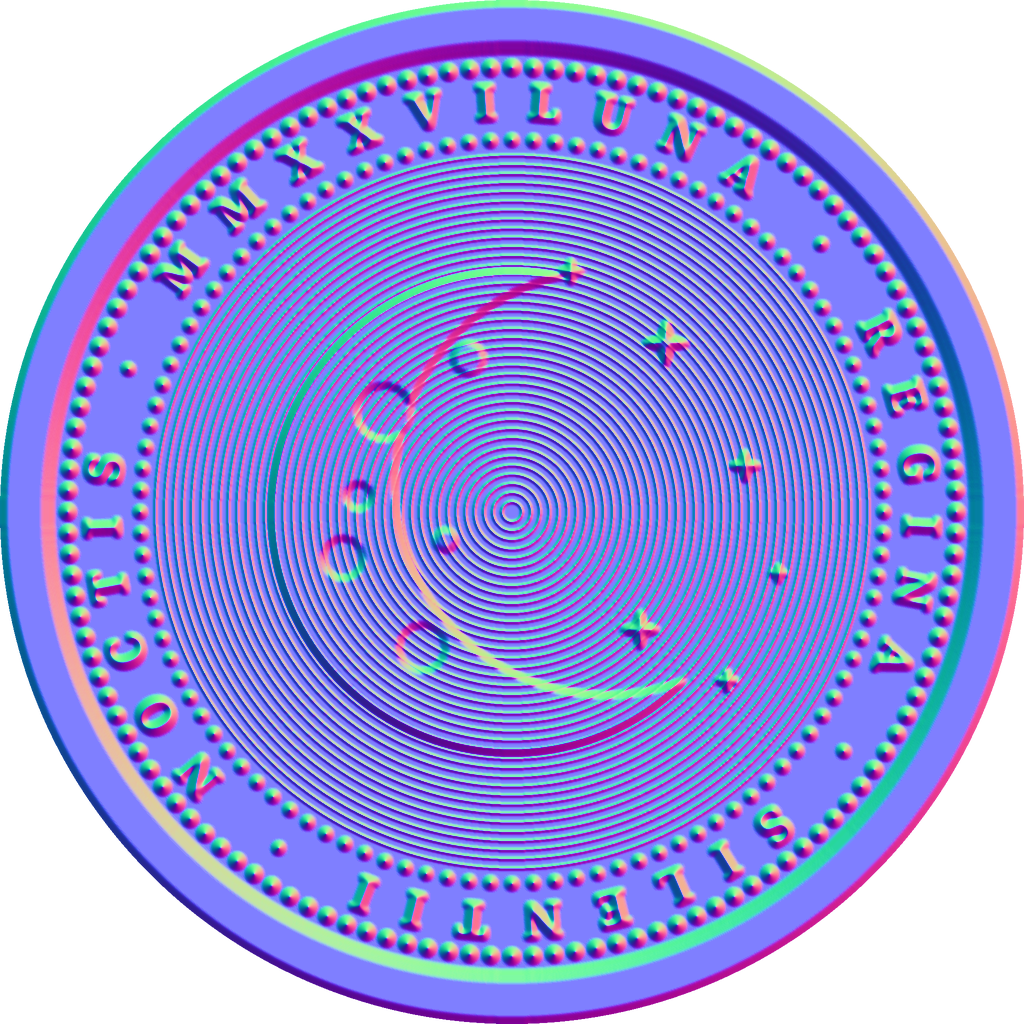
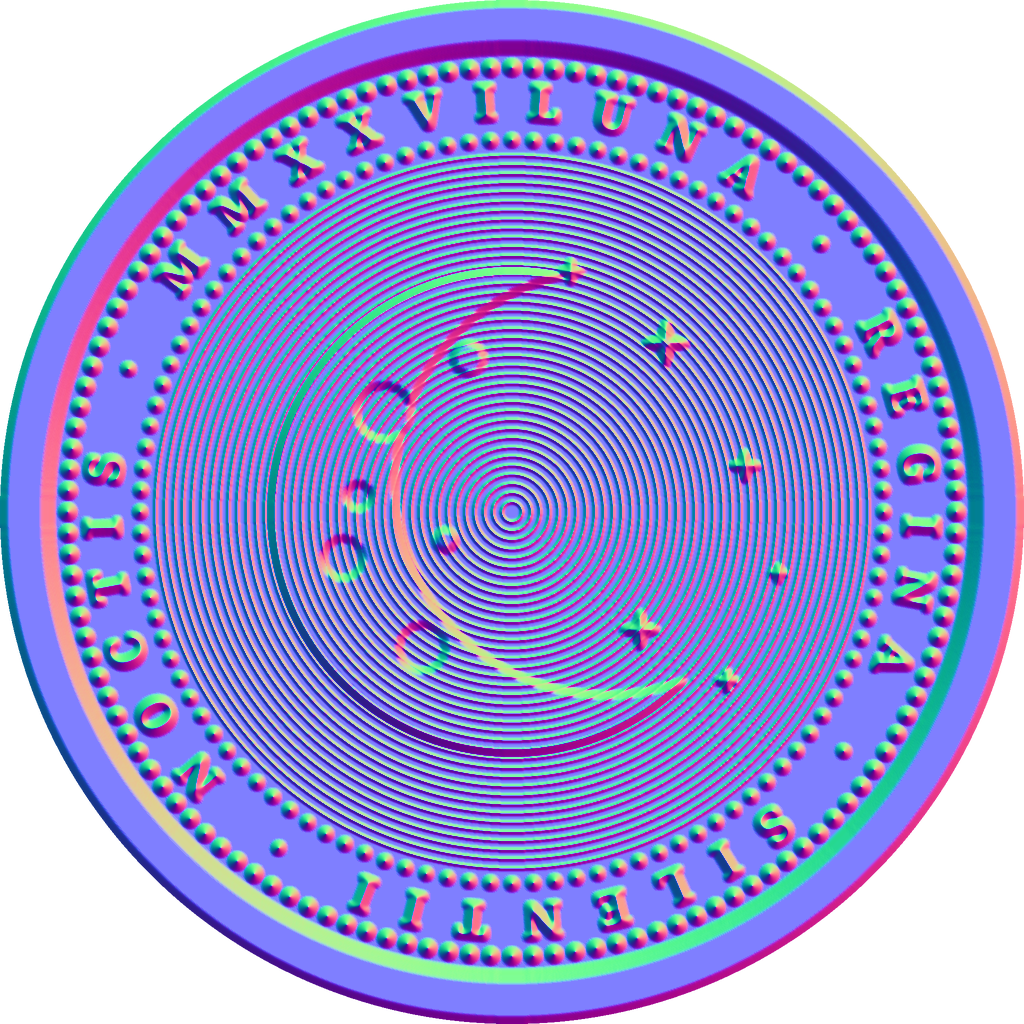
环境反射与金属材质：按参考图实测重建明暗
实测参考图亮度呈双峰分布（最亮档 37%、中间调仅 11%），
这是金属反射高对比环境的特征，据此重建：
- 环境贴图改为大面积纯白灯箱 + 暗区，模糊半径 24->9 保住亮暗分界
- 底色不用全黑而用中灰 96（实测最暗处约 90）
- 金属度 0.42->0.98、粗糙度 0.13，方向光降到 0.35 避免填平亮暗
- 银面底色提至近白，法线强度加深，日面补一圈细放射线

Claude-Session: https://claude.ai/code/session_013L5obD5FRvDZWpqWPEBMAm

diff --git a/CoinFlip/Scene/CoinSceneView.swift b/CoinFlip/Scene/CoinSceneView.swift
@@ -45,6 +45,14 @@ enum CoinScene {
     /// 把时间表里的高度（米）换算成场景里的高度
     static let heightScale: Float = 0.85
 
+    // 亮度。整体偏暗或偏亮时，优先调这两个。
+    /// 环境反射的强弱。这是"档位"，每加 1 就亮一倍。
+    static let environmentStops: Float = 1.9
+    /// 所有灯的总亮度倍数。
+    /// 金属几乎不吃这几盏灯，它的明暗主要来自环境反射。
+    /// 灯开大了反而会把亮暗之间填平，硬币就发灰了，所以这个数很小。
+    static let lightGain: Float = 0.35
+
     // 等待时的镜头微动。
     // 硬币是躺在平面上的，自己不该浮起来，所以改成镜头极缓慢地游移，
     // 画面有呼吸感，物理上也说得通。
@@ -103,6 +111,11 @@ struct CoinSceneView: View {
             state.coin = coin
             state.camera = camera
             coin.transform.rotation = Self.restingRotation(for: phase.currentFace)
+
+            // 环境反射。读不出来就跳过，硬币仍由上面那组灯照亮。
+            if let environment = await StudioEnvironment.load() {
+                content.add(StudioEnvironment.makeLight(environment, for: coin))
+            }
 
             // 跟着画面刷新走：每画一帧，系统就调一次这里。
             // 比自己起计时器更准，也不会在没动画时白白耗电。
@@ -336,11 +349,14 @@ struct CoinSceneView: View {
     ///     而不是像印花一样贴死在上面。
     private func faceMaterial(textureNamed name: String) -> RealityKit.Material {
         var material = PhysicallyBasedMaterial()
-        material.metallic = 0.42
-        material.roughness = 0.30
+        // 真正的金属：金属度拉满、表面抛得很光。
+        // 金属不靠自己发亮，全靠映出周围的环境——所以必须配合环境贴图，
+        // 没有环境的时候金属度高反而会死灰一片。
+        material.metallic = 0.98
+        material.roughness = 0.13
 
         if let texture = try? TextureResource.load(named: name) {
-            material.baseColor = .init(tint: UIColor(white: 0.70, alpha: 1),
+            material.baseColor = .init(tint: UIColor(white: 0.96, alpha: 1),
                                        texture: .init(texture))
         } else {
             material.baseColor = .init(tint: UIColor(white: 0.78, alpha: 1))
@@ -358,9 +374,9 @@ struct CoinSceneView: View {
     /// 侧边：没有图案的抛光银
     private func edgeMaterial() -> RealityKit.Material {
         var material = PhysicallyBasedMaterial()
-        material.baseColor = .init(tint: UIColor(white: 0.46, alpha: 1))
-        material.metallic = 0.3
-        material.roughness = 0.22
+        material.baseColor = .init(tint: UIColor(white: 0.88, alpha: 1))
+        material.metallic = 1.0
+        material.roughness = 0.12
         return material
     }
 
@@ -369,23 +385,39 @@ struct CoinSceneView: View {
     private func makeLights() -> Entity {
         let rig = Entity()
 
-        let key = DirectionalLight()
-        key.light.intensity = 1500
-        key.light.color = .white
-        key.look(at: .zero, from: [-1.1, 1.5, 1.6], relativeTo: nil)
-        rig.addChild(key)
+        /// 加一盏灯。角度用"从哪个方向照过来"描述，比写坐标直观。
+        func addLight(azimuth: Float, elevation: Float,
+                      intensity: Float, color: UIColor = .white) {
+            let light = DirectionalLight()
+            light.light.intensity = intensity * CoinScene.lightGain
+            light.light.color = color
+            let a = azimuth * .pi / 180
+            let e = elevation * .pi / 180
+            let from = SIMD3<Float>(sin(a) * cos(e), sin(e), cos(a) * cos(e)) * 4
+            light.look(at: .zero, from: from, relativeTo: nil)
+            rig.addChild(light)
+        }
 
-        let fill = DirectionalLight()
-        fill.light.intensity = 420
-        fill.light.color = UIColor(red: 0.84, green: 0.89, blue: 1.0, alpha: 1)
-        fill.look(at: .zero, from: [1.5, -1.0, 1.1], relativeTo: nil)
-        rig.addChild(fill)
+        // 主灯：左前上方。硬币大部分时候的明暗由它决定。
+        addLight(azimuth: -38, elevation: 42, intensity: 1150)
 
-        let front = DirectionalLight()
-        front.light.intensity = 260
-        front.light.color = .white
-        front.look(at: .zero, from: [0, 0.2, 2.0], relativeTo: nil)
-        rig.addChild(front)
+        // 顶灯：正上方。硬币躺平、镜头俯看特写时，主要靠它照亮图案。
+        addLight(azimuth: 0, elevation: 84, intensity: 620)
+
+        // 两盏侧灯：左右贴着地平线打过来。
+        // 硬币翻滚时，它们会在币面上扫出一道道掠过的高光——
+        // 这是这组灯里最重要的两盏，没有它们金属就是一块死板的灰。
+        addLight(azimuth: -96, elevation: 9, intensity: 760,
+                 color: UIColor(red: 0.92, green: 0.95, blue: 1.0, alpha: 1))
+        addLight(azimuth: 98, elevation: 13, intensity: 700,
+                 color: UIColor(red: 1.0, green: 0.97, blue: 0.92, alpha: 1))
+
+        // 轮廓灯：从硬币后方斜打，勾出边缘的一道亮线，把硬币从黑底里拎出来。
+        addLight(azimuth: 158, elevation: 30, intensity: 540)
+
+        // 补光：右下方很弱的一盏，免得背光那侧黑成一团。
+        addLight(azimuth: 46, elevation: -22, intensity: 230,
+                 color: UIColor(red: 0.86, green: 0.90, blue: 1.0, alpha: 1))
 
         return rig
     }

diff --git a/CoinFlip/Scene/StudioEnvironment.swift b/CoinFlip/Scene/StudioEnvironment.swift
@@ -1,0 +1,55 @@
+// 环境反射：给硬币造一个可以映出来的世界。
+//
+// 真金属之所以好看，是因为它映出周围的环境——灯箱、墙面、反光板。
+// 我们的场景除了黑背景什么都没有，所以金属度一调高就显得死板发灰。
+//
+// 这个文件把那张"全景展开图"（studio_env.png）变成环境光源。
+// 系统会把它卷成一个球罩在场景外面，硬币表面映出的就是它：
+// 转到哪，哪片灯箱就在币面上流过去。这是让它像金属而不是塑料的关键一步。
+//
+// ⚠ 这一整块是可选的。万一在某些系统上用不了，下面的代码会安静地跳过，
+//    硬币仍然由那组摄影棚灯照亮，只是少了环境反射。
+
+import RealityKit
+import UIKit
+
+enum StudioEnvironment {
+
+    /// 读取全景图并做成环境资源。失败就返回空，调用方会跳过。
+    static func load() async -> EnvironmentResource? {
+        guard let url = Bundle.main.url(forResource: "studio_env", withExtension: "png"),
+              let image = UIImage(contentsOfFile: url.path),
+              let cgImage = image.cgImage else { return nil }
+        return try? await EnvironmentResource(equirectangular: cgImage)
+    }
+
+    /// 做一盏环境光，并让硬币接收它。
+    ///
+    /// 返回的这个节点要由调用方加进场景里。
+    /// 不直接在这里加，是为了不依赖只有 SwiftUI 那边才有的场景类型。
+    ///
+    /// - Parameters:
+    ///   - environment: 上面做好的环境资源
+    ///   - coin: 硬币
+    /// - Returns: 承载环境光的节点
+    static func makeLight(_ environment: EnvironmentResource, for coin: Entity) -> Entity {
+        let lightEntity = Entity()
+        lightEntity.name = "ibl"
+        lightEntity.components.set(
+            ImageBasedLightComponent(source: .single(environment),
+                                     intensityExponent: CoinScene.environmentStops)
+        )
+
+        // 接收环境光的组件要挂到真正有外观的那几个部件上，
+        // 挂在空壳父节点上是不生效的，所以这里逐层挂下去。
+        receive(from: lightEntity, in: coin)
+        return lightEntity
+    }
+
+    private static func receive(from source: Entity, in entity: Entity) {
+        entity.components.set(ImageBasedLightReceiverComponent(imageBasedLight: source))
+        for child in entity.children {
+            receive(from: source, in: child)
+        }
+    }
+}

diff --git a/CoinFlipTests/ResourcesTests.swift b/CoinFlipTests/ResourcesTests.swift
@@ -30,6 +30,7 @@ final class ResourcesTests: XCTestCase {
             (style.textureMoon, "png"),
             (style.textureSun + "_normal", "png"),
             (style.textureMoon + "_normal", "png"),
+            ("studio_env", "png"),
             (style.tossSound, "wav"),
             (style.landSound, "wav"),
         ]

diff --git a/scripts/make_assets.py b/scripts/make_assets.py
@@ -128,6 +128,13 @@ def sun_motif(major: Image.Image, fine: Image.Image):
         half = math.radians(3.0)
         d.polygon([polar(base, a - half), tip, polar(base, a + half)], fill=205)
 
+    # 一圈很密的细放射线，铺在粗光芒底下，让中间不空
+    fd = ImageDraw.Draw(fine)
+    hair = 150
+    for i in range(hair):
+        a = 2 * math.pi * i / hair
+        fd.line([polar(0.200, a), polar(0.600, a)], fill=255, width=max(2, int(BIG * 0.0013)))
+
     # 中央圆盘，边上围一圈小珠
     r_core = 0.150
     d.ellipse([c - c * r_core, c - c * r_core, c + c * r_core, c + c * r_core], fill=170)
@@ -232,7 +239,7 @@ def light(major: Image.Image, fine: Image.Image) -> Image.Image:
     px = base_silver()
     px += shade[:, :, None]
     # 浮雕本身略微压暗，读起来才是金属而不是发光的
-    px -= (np.array(major, dtype=np.float32) / 255)[:, :, None] * 7
+    px -= (np.array(major, dtype=np.float32) / 255)[:, :, None] * 4
 
     img = Image.fromarray(np.clip(px, 0, 255).astype(np.uint8), "RGB").convert("RGBA")
     img.putalpha(circular_alpha())
@@ -260,7 +267,7 @@ def normal_map(major: Image.Image, fine: Image.Image) -> Image.Image:
     height = hm + hf * 0.22                     # 细纹只占一点点起伏
 
     gy, gx = np.gradient(height)
-    strength = 55.0                             # 浮雕的"深浅"，越大越立体
+    strength = 96.0                             # 浮雕的"深浅"，越大越立体
     nx, ny, nz = -gx * strength, gy * strength, np.ones_like(gx)
     norm = np.sqrt(nx * nx + ny * ny + nz * nz)
     nx, ny, nz = nx / norm, ny / norm, nz / norm
@@ -275,12 +282,12 @@ def base_silver() -> np.ndarray:
     """抛光银的底色：左上偏亮、右下偏暗，中间还有一道柔和的高光带"""
     yy, xx = np.mgrid[0:SIZE, 0:SIZE].astype(np.float32)
     t = (xx + yy) / (2 * SIZE)
-    light_c = np.array([239, 241, 245], dtype=np.float32)
-    dark_c = np.array([150, 155, 165], dtype=np.float32)
+    light_c = np.array([250, 251, 253], dtype=np.float32)
+    dark_c = np.array([214, 218, 226], dtype=np.float32)
     px = light_c[None, None, :] * (1 - t)[:, :, None] + dark_c[None, None, :] * t[:, :, None]
 
     # 斜向扫过的一道高光，像镜面反射
-    band = np.exp(-(((xx - yy) / SIZE + 0.18) ** 2) / 0.085) * 11
+    band = np.exp(-(((xx - yy) / SIZE + 0.18) ** 2) / 0.085) * 5
     return px + band[:, :, None]
 
 
@@ -289,6 +296,63 @@ def circular_alpha() -> Image.Image:
     mask = Image.new("L", (BIG, BIG), 0)
     ImageDraw.Draw(mask).ellipse([0, 0, BIG - 1, BIG - 1], fill=255)
     return mask.resize((SIZE, SIZE), Image.LANCZOS)
+
+
+# ─────────────────────────── 环境贴图 ───────────────────────────
+
+def make_environment():
+    """
+    画一张"虚拟摄影棚"。
+
+    真金属之所以好看，是因为它**映出周围的环境**——灯箱、墙面、反光板。
+    我们的场景除了黑背景什么都没有，金属就显得死板发灰。
+    这张图就是给硬币造一个可以反射的世界。
+
+    它是一张"全景展开图"：横向一圈是四周 360 度，纵向从头顶到脚下。
+    手机会把它卷成一个球罩在场景外面，硬币表面映出的就是它。
+
+    棚里布了：头顶一块大灯箱、左右两块侧灯箱、斜前方一块主灯箱，
+    还有一圈很暗的地面。灯箱边缘都是柔的，这样映在硬币上才是柔和的光带，
+    而不是一个个硬邦邦的亮点。
+    """
+    W, H = 1024, 512
+
+    # 底色不是全黑，而是中等偏暗的灰。
+    # 实测参考图里最暗处也有 90 左右，不是死黑——金属背光面映的是棚里的墙，
+    # 不是虚空。底色压太黑，硬币会一半没在黑里。
+    img = Image.new("L", (W, H), 96)
+    d = ImageDraw.Draw(img)
+
+    def box(az, el, w_deg, h_deg, value):
+        x = (az % 360) / 360 * W
+        y = (90 - el) / 180 * H
+        hw, hh = w_deg / 360 * W / 2, h_deg / 180 * H / 2
+        for shift in (-W, 0, W):
+            d.ellipse([x + shift - hw, y - hh, x + shift + hw, y + hh], fill=value)
+
+    # 一块占掉大半个天空的主灯箱。
+    # 实测参考图有 37% 的像素落在最亮那一档，说明光源面积很大，
+    # 不是几个小灯泡——所以这里铺得很开。
+    box(-30, 58, 230, 132, 255)
+    box(0, 90, 360, 72, 255)          # 头顶接上，连成一整片
+    box(-110, 16, 96, 64, 250)        # 左侧灯箱
+
+    # 两块暗区，用来在币面上压出深色的带子。
+    # 没有暗区就全是亮的，看着就"平"。
+    box(78, 30, 86, 70, 40)
+    box(150, -8, 100, 60, 46)
+
+    # 地面：暗，但留一点
+    box(0, -90, 360, 66, 52)
+
+    # 只稍微糊一下。糊过头，亮暗之间会填满中间调，
+    # 币面就从"黑白分明"变成"一片灰"——这正是上一版发灰的原因。
+    img = img.filter(ImageFilter.GaussianBlur(9))
+
+    rgb = Image.merge("RGB", (img, img, img.point(lambda v: min(255, int(v * 1.04)))))
+    path = OUT / "studio_env.png"
+    rgb.save(path, "PNG", optimize=True)
+    print(f"  {path.name}  {W}x{H}  {path.stat().st_size // 1024} KB")
 
 
 # ─────────────────────────── 音效 ───────────────────────────
@@ -387,6 +451,8 @@ if __name__ == "__main__":
             path = OUT / f"{name}{suffix}.png"
             img.save(path, "PNG", optimize=True)
             print(f"  {path.name}  {img.size[0]}x{img.size[1]}  {path.stat().st_size // 1024} KB")
+    print("生成环境贴图：")
+    make_environment()
     print("生成音效：")
     make_sounds()
     print("完成。")
